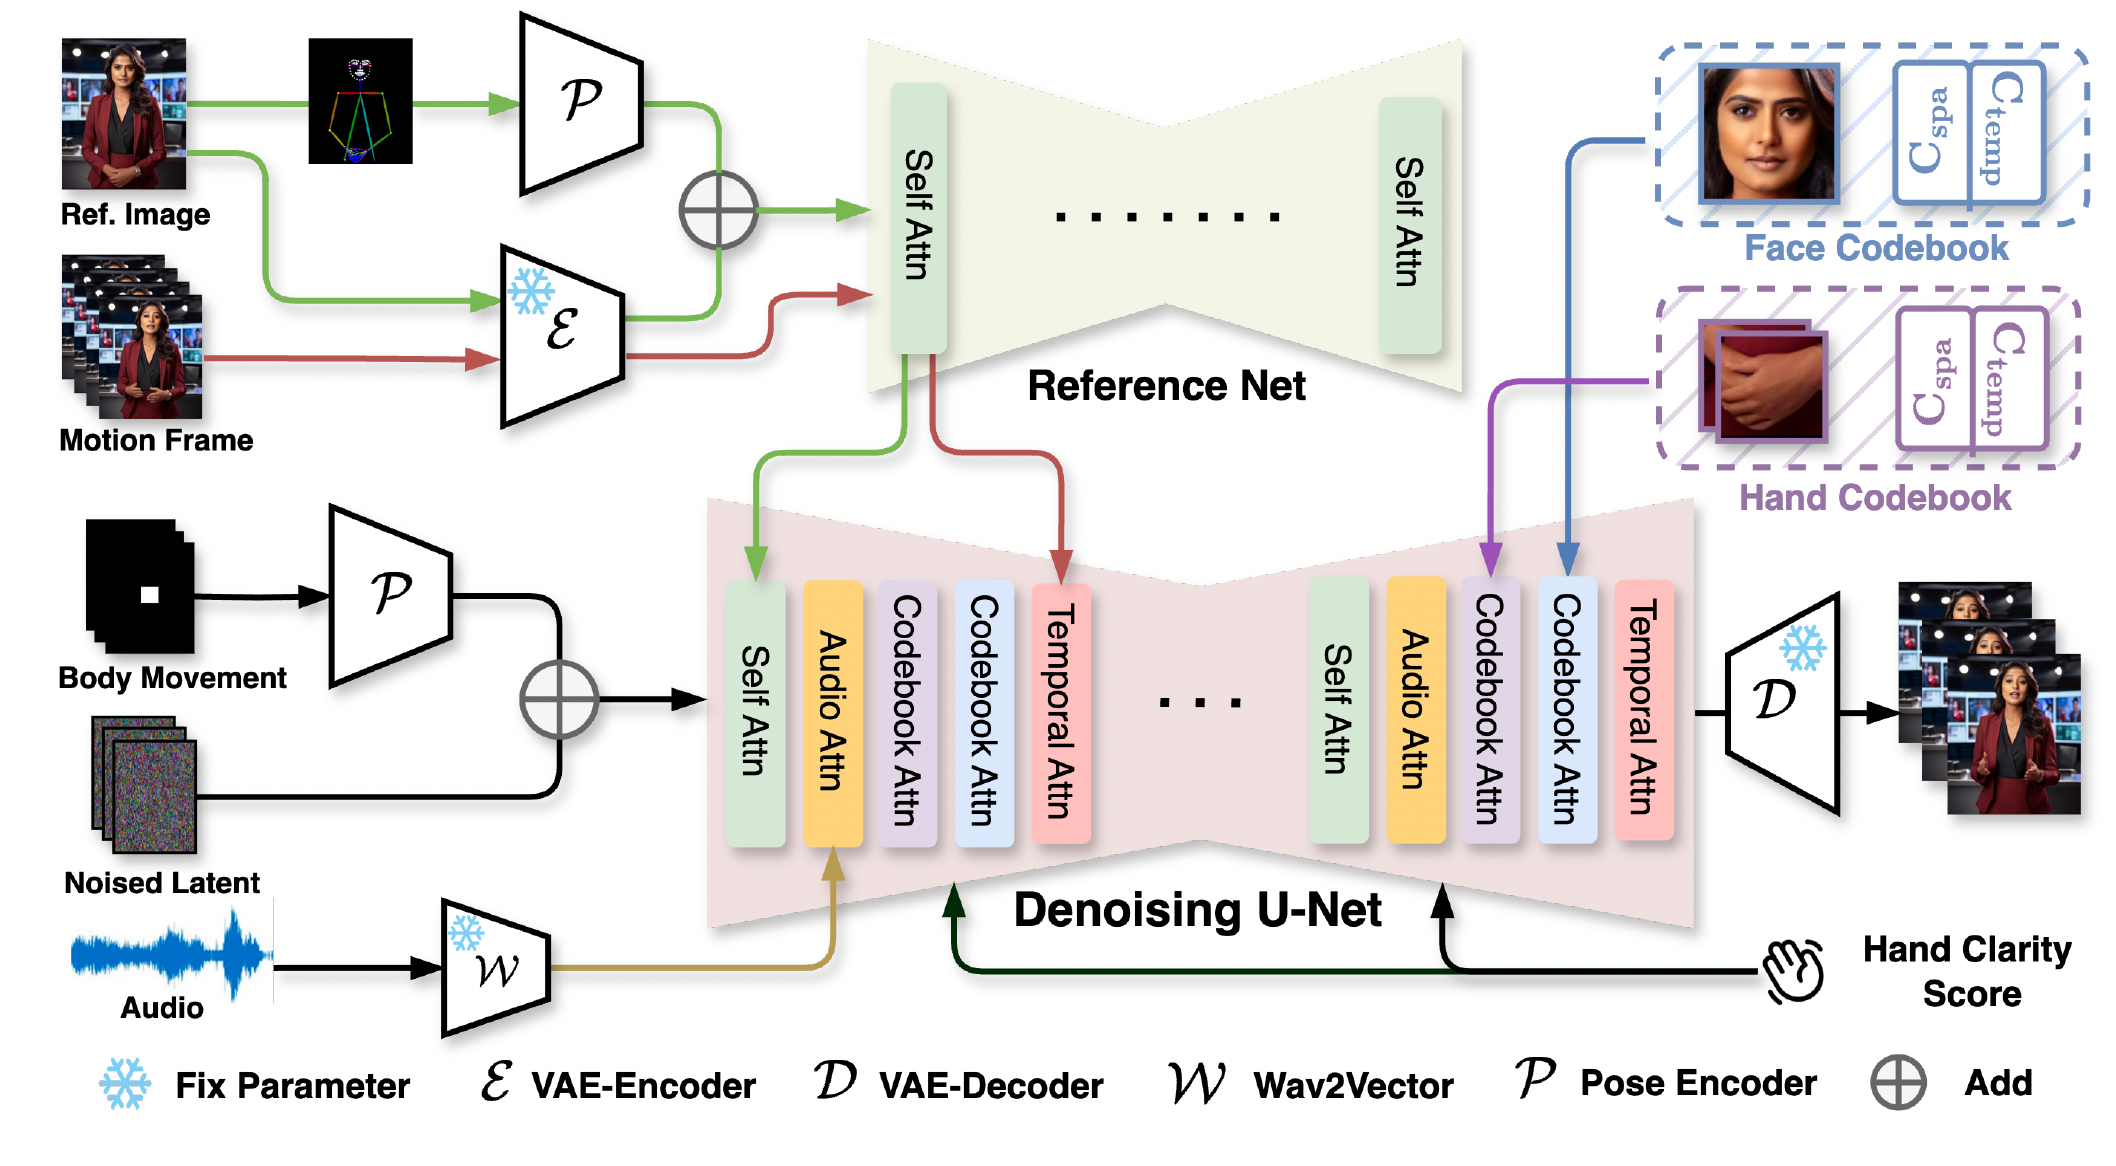
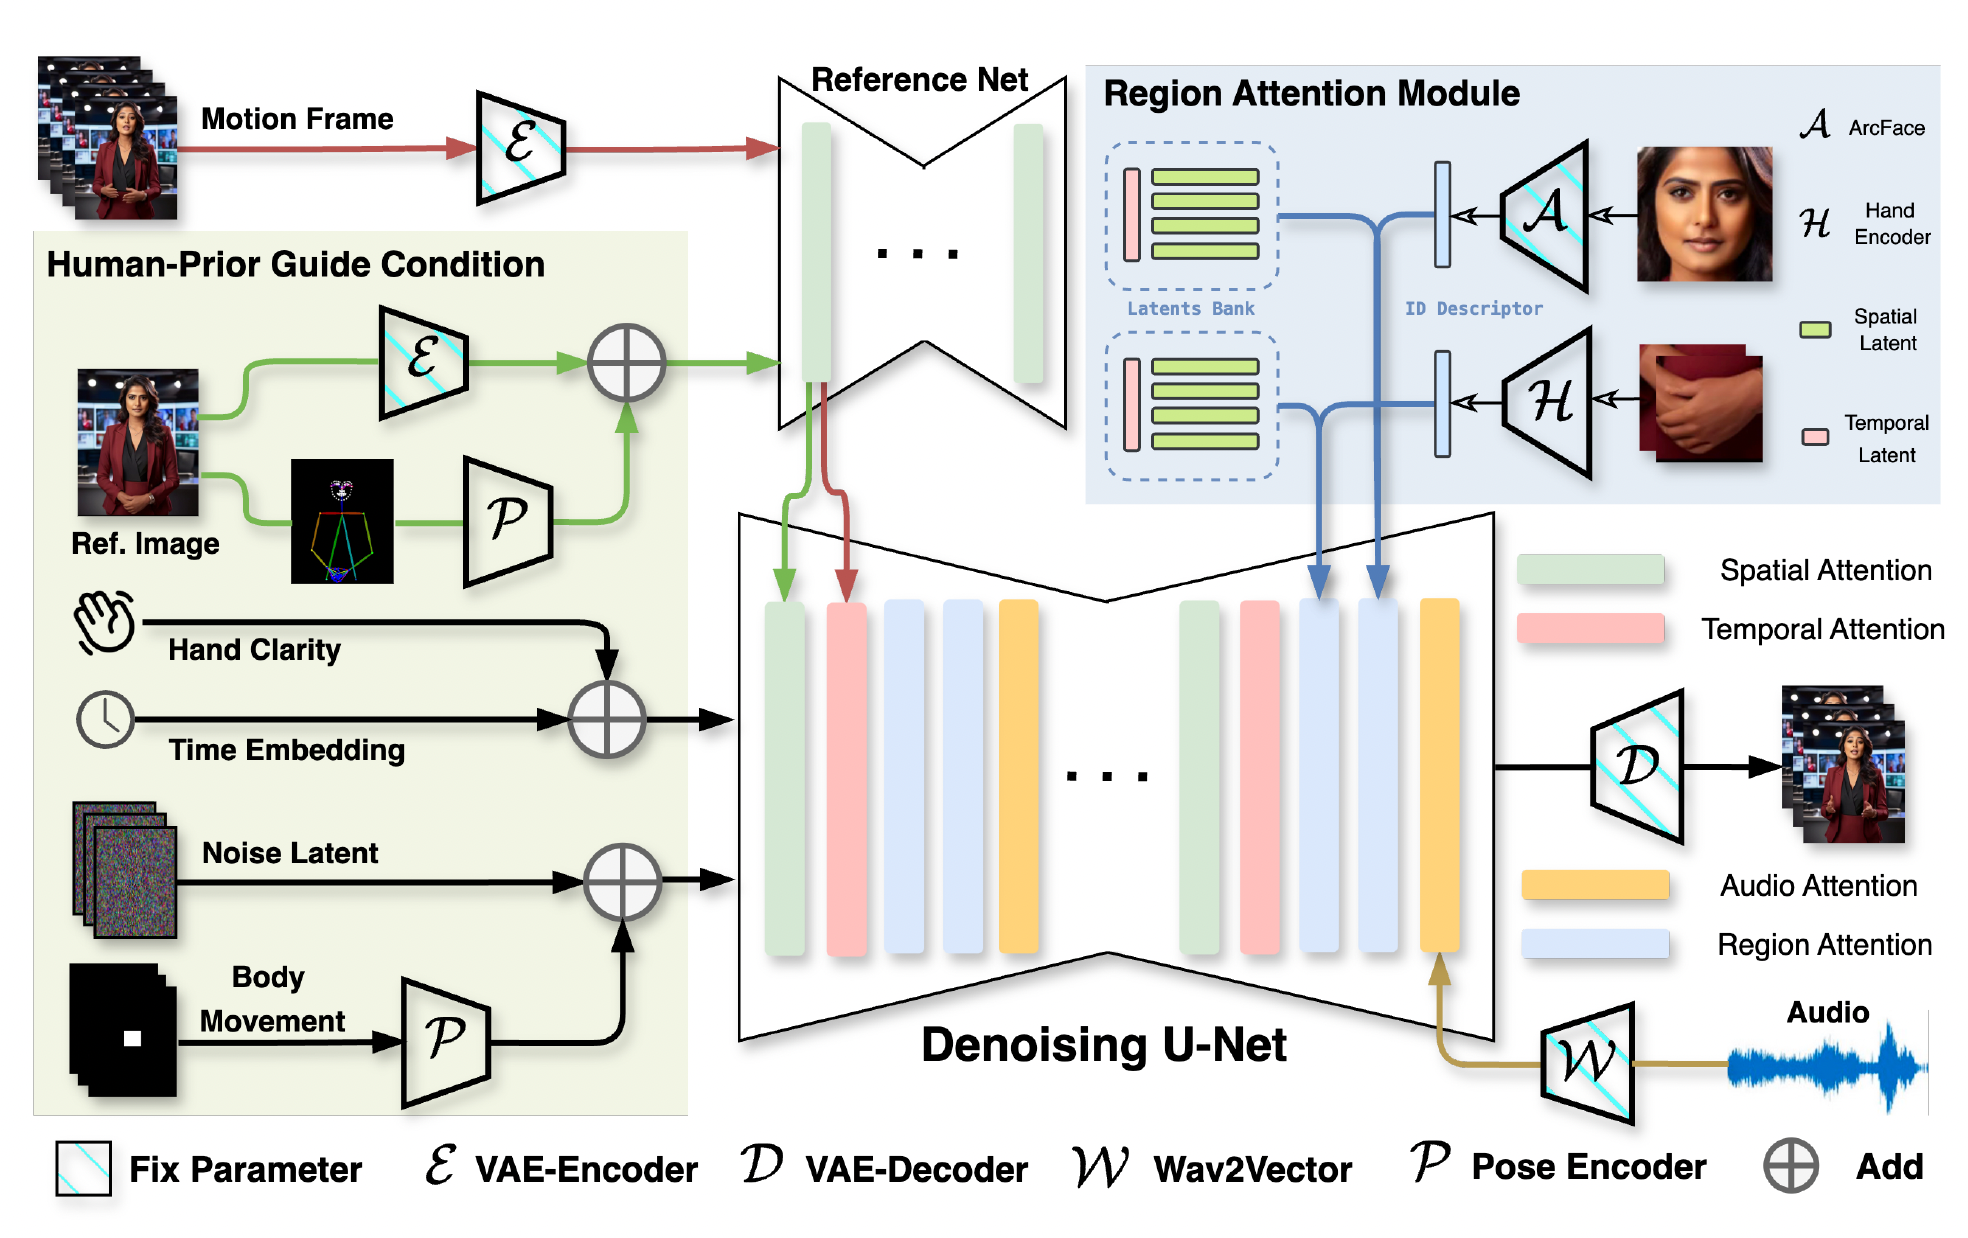
update

diff --git a/index.html b/index.html
@@ -3,9 +3,9 @@
 <head>
   <meta charset="utf-8">
   <meta name="description"
-        content="CyberHost: Taming Audio-driven Avatar Diffusion Model with Region Codebook Attention">
+        content="CyberHost: A One-stage Diffusion Framework for Audio-driven Talking Body Generation">
   <meta name="viewport" content="width=device-width, initial-scale=1">
-  <title>CyberHost: Taming Audio-driven Avatar Diffusion Model with Region Codebook Attention</title>
+  <title>CyberHost: A One-stage Diffusion Framework for Audio-driven Talking Body Generation</title>
 
   <!-- Global site tag (gtag.js) - Google Analytics -->
   <script async src="https://www.googletagmanager.com/gtag/js?id=G-PYVRSFMDRL"></script>
@@ -47,7 +47,7 @@
     <div class="columns is-centered">
       <div class="column has-text-centered">
         <h1 class="title is-1 publication-title">
-          CyberHost: Taming Audio-driven Avatar Diffusion Model with Region Codebook Attention </h1>
+          CyberHost: A One-stage Diffusion Framework for Audio-driven Talking Body Generation </h1>
       </div>  
 
 
@@ -63,11 +63,7 @@
         <h2 class="title is-3">Abstract</h2>
         <div class="content has-text-justified">
           <p>
-            CyberHost employs a dual U-Net architecture as its foundational structure and utilizes the motion frame strategy for temporal continuation, establishing a baseline for audio-driven talking body generation.
-
-            Based on the baseline, to enhance the modeling capability for the key human region, i.e., hands and faces, we adapt the proposed Region Attention Modules (RAM) to both the facial and hand regions and insert them into multiple stages of the Denoising U-Net. The RAM consists of two parts: a spatio-temporal latents bank to learn shared local structural details and an identity descriptor to supplement ID-specific texture details.
-
-            To reduce the uncertainty in half-body animation driven solely by audio, several improvements have been implemented: (1) The body movement map is employed to stabilize the root movements of the body. It is encoded and merged with the noised latent, serving as the input for the denoising U-Net.  (2) The hand clarity score is designed to prevent hand prediction degradation caused by motion blur in the training data. It is incorporated as a residual into the time embedding. (3) The pose encoder encodes the reference skeleton map, which is then integrated into the reference latent, yielding a pose-aligned reference feature.     
+            Diffusion-based video generation technology has advanced significantly, catalyzing a proliferation of research in human animation. While breakthroughs have been made in driving human animation through various modalities for portraits, most of current solutions for human body animation still focus on video-driven methods, leaving audio-driven taking body generation relatively underexplored. In this paper, we introduce CyberHost, a one-stage audio-driven talking body generation framework that addresses common synthesis degradations in half-body animation, including hand integrity, identity consistency, and natural motion. CyberHost's key designs are twofold. Firstly, the Region Attention Module (RAM) maintains a set of learnable, implicit, identity-agnostic latent features and combines them with identity-specific local visual features to enhance the synthesis of critical local regions. Secondly, the Human-Prior-Guided Conditions introduce more human structural priors into the model, reducing uncertainty in generated motion patterns and thereby improving the stability of the generated videos. To our knowledge, CyberHost is the first one-stage audio-driven human diffusion model capable of zero-shot video generation for the human body. Extensive experiments demonstrate that CyberHost surpasses previous works in both quantitative and qualitative aspects. CyberHost can also be extended to video-driven and audio-video hybrid-driven scenarios, achieving similarly satisfactory results.
           </p>
         </div>
         <div style="display:flex;align-items:center;justify-content:center;">
@@ -111,13 +107,13 @@
       alt="The overall structure of CyberHost."/>
           </p>
           <p>
-            CyberHost employs a dual U-Net architecture as its foundational structure and utilizes the motion frame strategy for temporal continuation, establishing a baseline for audio-driven body animation. 
+            CyberHost employs a dual U-Net architecture as its foundational structure and utilizes the motion frame strategy for temporal continuation, establishing a baseline for audio-driven talking body generation.
           </p>
           <p>
-            Based on the baseline, to enhance the modeling capability for the key human region, i.e., hands and faces, we adapt the proposed Region Codebook Attention to both the facial and hand regions and insert them into multiple stages of the Denoising U-Net. The Region Codebook consists of two parts: the motion codebook learned from the dataset and the identity descriptor extracted from cropped local images. 
+            Based on the baseline, to enhance the modeling capability for the key human region, i.e., hands and faces, we adapt the proposed Region Attention Modules (RAM) to both the facial and hand regions and insert them into multiple stages of the Denoising U-Net. The RAM consists of two parts: a spatio-temporal latents bank to learn shared local structural details and an identity descriptor to supplement ID-specific texture details.
           </p>
           <p>
-            To reduce the uncertainty in full-body animation driven solely by audio, several improvements have been implemented:  (1) The Body Movement Map is employed to stabilize the root movements of the body. It is encoded and merged with the noised latent, serving as the input for the denoising U-Net.  (2) Hand clarity is explicitly enhanced by incorporating the Hand Clarity Score as a residual into the time embedding to mitigate the effects of motion blur in the data. (3) The Pose Encoder encodes the reference skeleton map, which is then integrated into the reference latent, yielding a Pose-aligned Reference Feature.  
+            To reduce the uncertainty in half-body animation driven solely by audio, several improvements have been implemented: (1) The body movement map is employed to stabilize the root movements of the body. It is encoded and merged with the noised latent, serving as the input for the denoising U-Net.  (2) The hand clarity score is designed to prevent hand prediction degradation caused by motion blur in the training data. It is incorporated as a residual into the time embedding. (3) The pose encoder encodes the reference skeleton map, which is then integrated into the reference latent, yielding a pose-aligned reference feature. 
           </p>
         </div>
 
